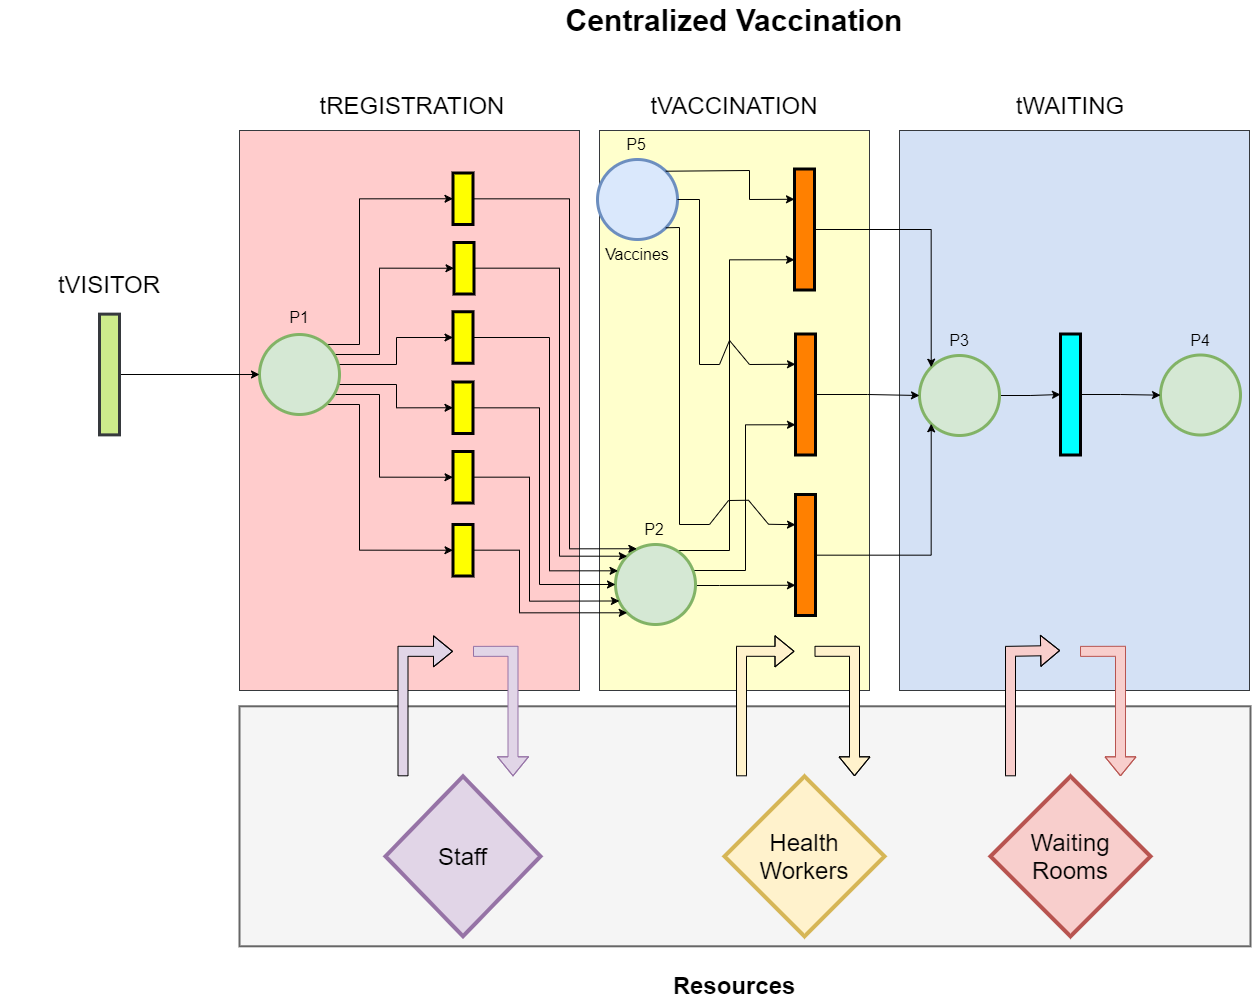
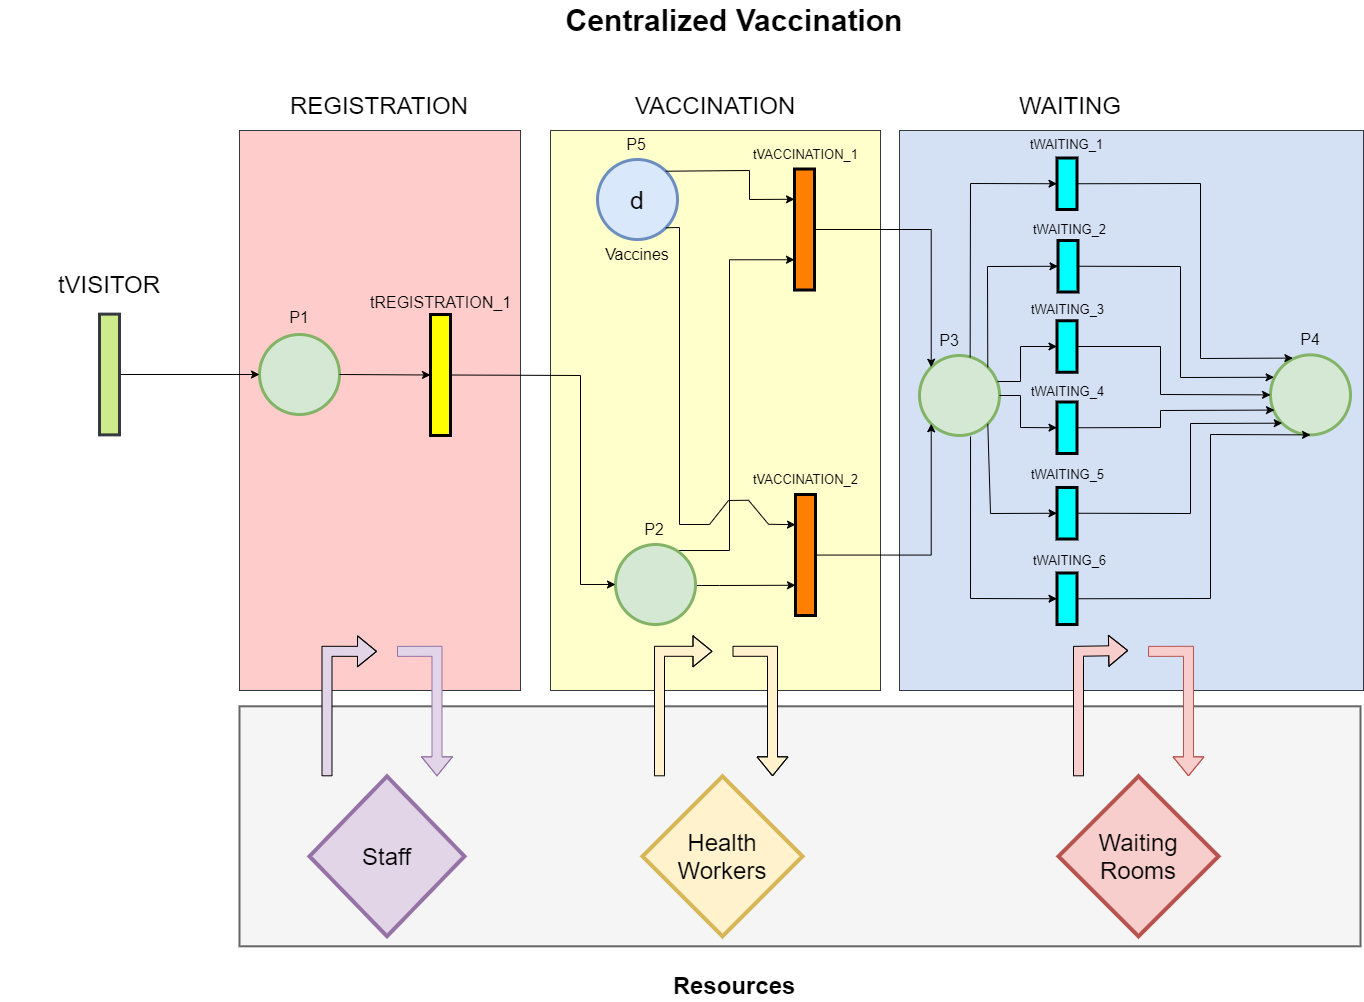
Imporving the code and petri net of centralized vaccination.
- Changing the visitor transitions to generate visitors at a given time intervall.
- Changing the petri net of Centralized Vaccination to show 1 registers, 2 vaccination posts, and 6 watining rooms. so all the proesses are matched with how many visitors they process in a given time intervall.

diff --git a/Centralized Vaccination/Centralized_Vaccination_pn.m b/Centralized Vaccination/Centralized_Vaccination_pn.m
@@ -16,33 +16,37 @@ global_info.STOP_RECEIVING_VISITORS_AT = 15.5*60*60;
 
 % Assuming we get a even distribution of 1 visitor per minute 
 % from 8 am to 15:30
-global_info.num_of_visitors_each_minute = 1; 
+global_info.time_between_visitors = 5*60; %1*60;
+global_info.num_of_visitors_at_each_fire = 1; 
 
 % Study Case includes 5 staff, 
 % each available for 7,5 hours of work during the simulation
 % since they have a 0.5 hours break in one work day.
-global_info.num_of_staff = 5;
+global_info.num_of_staff = 1; %5;
 
 % Study Case includes 10 health works, 
 % each available for 7,5 hours of work during the simulation
 % since they have a 0.5 hours break in one work day.
-global_info.num_of_health_workers = 10;
+global_info.num_of_health_workers = 2; %10;
 
 % Study Case includes 5 waiting rooms to be used 
 % for observation after vaccination
-global_info.num_of_waiting_rooms = 30;
+global_info.num_of_waiting_rooms = 6; %30;
 
 pns = pnstruct('Centralized_Vaccination_pn_pdf');
 
 % initial tokens
 
 % Here we set the number of vaccines doses available to be used,
-% Set this number very carefully to make sure 
-% there is enough vaccines to everybody.
-% This should equal the target number of visitors to process:
-% If we are planning on receiving 1 visitor each minute for 7.5 hours,
-% then we can are going to need 7.5*60 = 450 doses of vaccine.
-num_of_vaccines = 450;
+% because we would like to assume we have enough vaccine doses to everyone
+% and we know that the process of waiting for any abnormal reactions
+% is the bottle neck and it is also the longest and last process.
+% we can dynamically set this number to be equal to =
+% The number of available waiting rooms 
+% X 2(a waiting room can process 2 visitors each hour)
+% X 8(the rooms are available 8 hours per day which is the length of this simulation)
+% for 6 rooms we get 96 doses of vaccines.
+num_of_vaccines = global_info.num_of_waiting_rooms*2*8; 
 
 % The places in the topology of petri net for centralized vaccination
 % No queuing algorithm is used, but random selection of visitors from

diff --git a/Centralized Vaccination/construct.m b/Centralized Vaccination/construct.m
@@ -24,21 +24,22 @@ function cell = construct_set(type, num_of_staff, num_of_health_workers, num_of_
     global global_info;
     
     if strcmp(type, 'firing_times')
-        cell = FT(num_of_staff, num_of_health_workers, num_of_waiting_rooms);
+        cell = FT(global_info.time_between_visitors,...
+            num_of_staff, num_of_health_workers, num_of_waiting_rooms);
     elseif strcmp(type, 'transitions')
         cell = TS(num_of_staff, num_of_health_workers, num_of_waiting_rooms);
     elseif strcmp(type, 'arcs')
-        cell = AS(global_info.num_of_visitors_each_minute,...
-        num_of_staff, num_of_health_workers, num_of_waiting_rooms);
+        cell = AS(global_info.num_of_visitors_at_each_fire,...
+            num_of_staff, num_of_health_workers,num_of_waiting_rooms);
     end
 end
 
-function [ft] = FT(num_of_staff, num_of_health_workers, num_of_waiting_rooms)
+function [ft] = FT(time_between_visitors, num_of_staff, num_of_health_workers, num_of_waiting_rooms)
     
     ft = cell(1, 0);
     
     ft{end+1} = 'tVISITOR';
-    ft{end+1} = 1*60;
+    ft{end+1} = time_between_visitors;
 
     for s = 1:num_of_staff
         ft{end+1} = ['tREGISTRATION_',num2str(s)];
@@ -77,13 +78,13 @@ function [Ts] = TS(num_of_staff, num_of_health_workers, num_of_waiting_rooms)
 
 end
 
-function [set_of_As] = AS(num_of_visitors_each_minute, num_of_staff, num_of_health_workers, num_of_waiting_rooms)
+function [set_of_As] = AS(num_of_visitors_at_each_fire, num_of_staff, num_of_health_workers, num_of_waiting_rooms)
     
     set_of_As = cell(1, 0);
     
     set_of_As{end+1} = 'tVISITOR';
     set_of_As{end+1} = 'p1';
-    set_of_As{end+1} = num_of_visitors_each_minute;
+    set_of_As{end+1} = num_of_visitors_at_each_fire;
     
     % to tREGISTRATION_*
     for s = 1:num_of_staff
